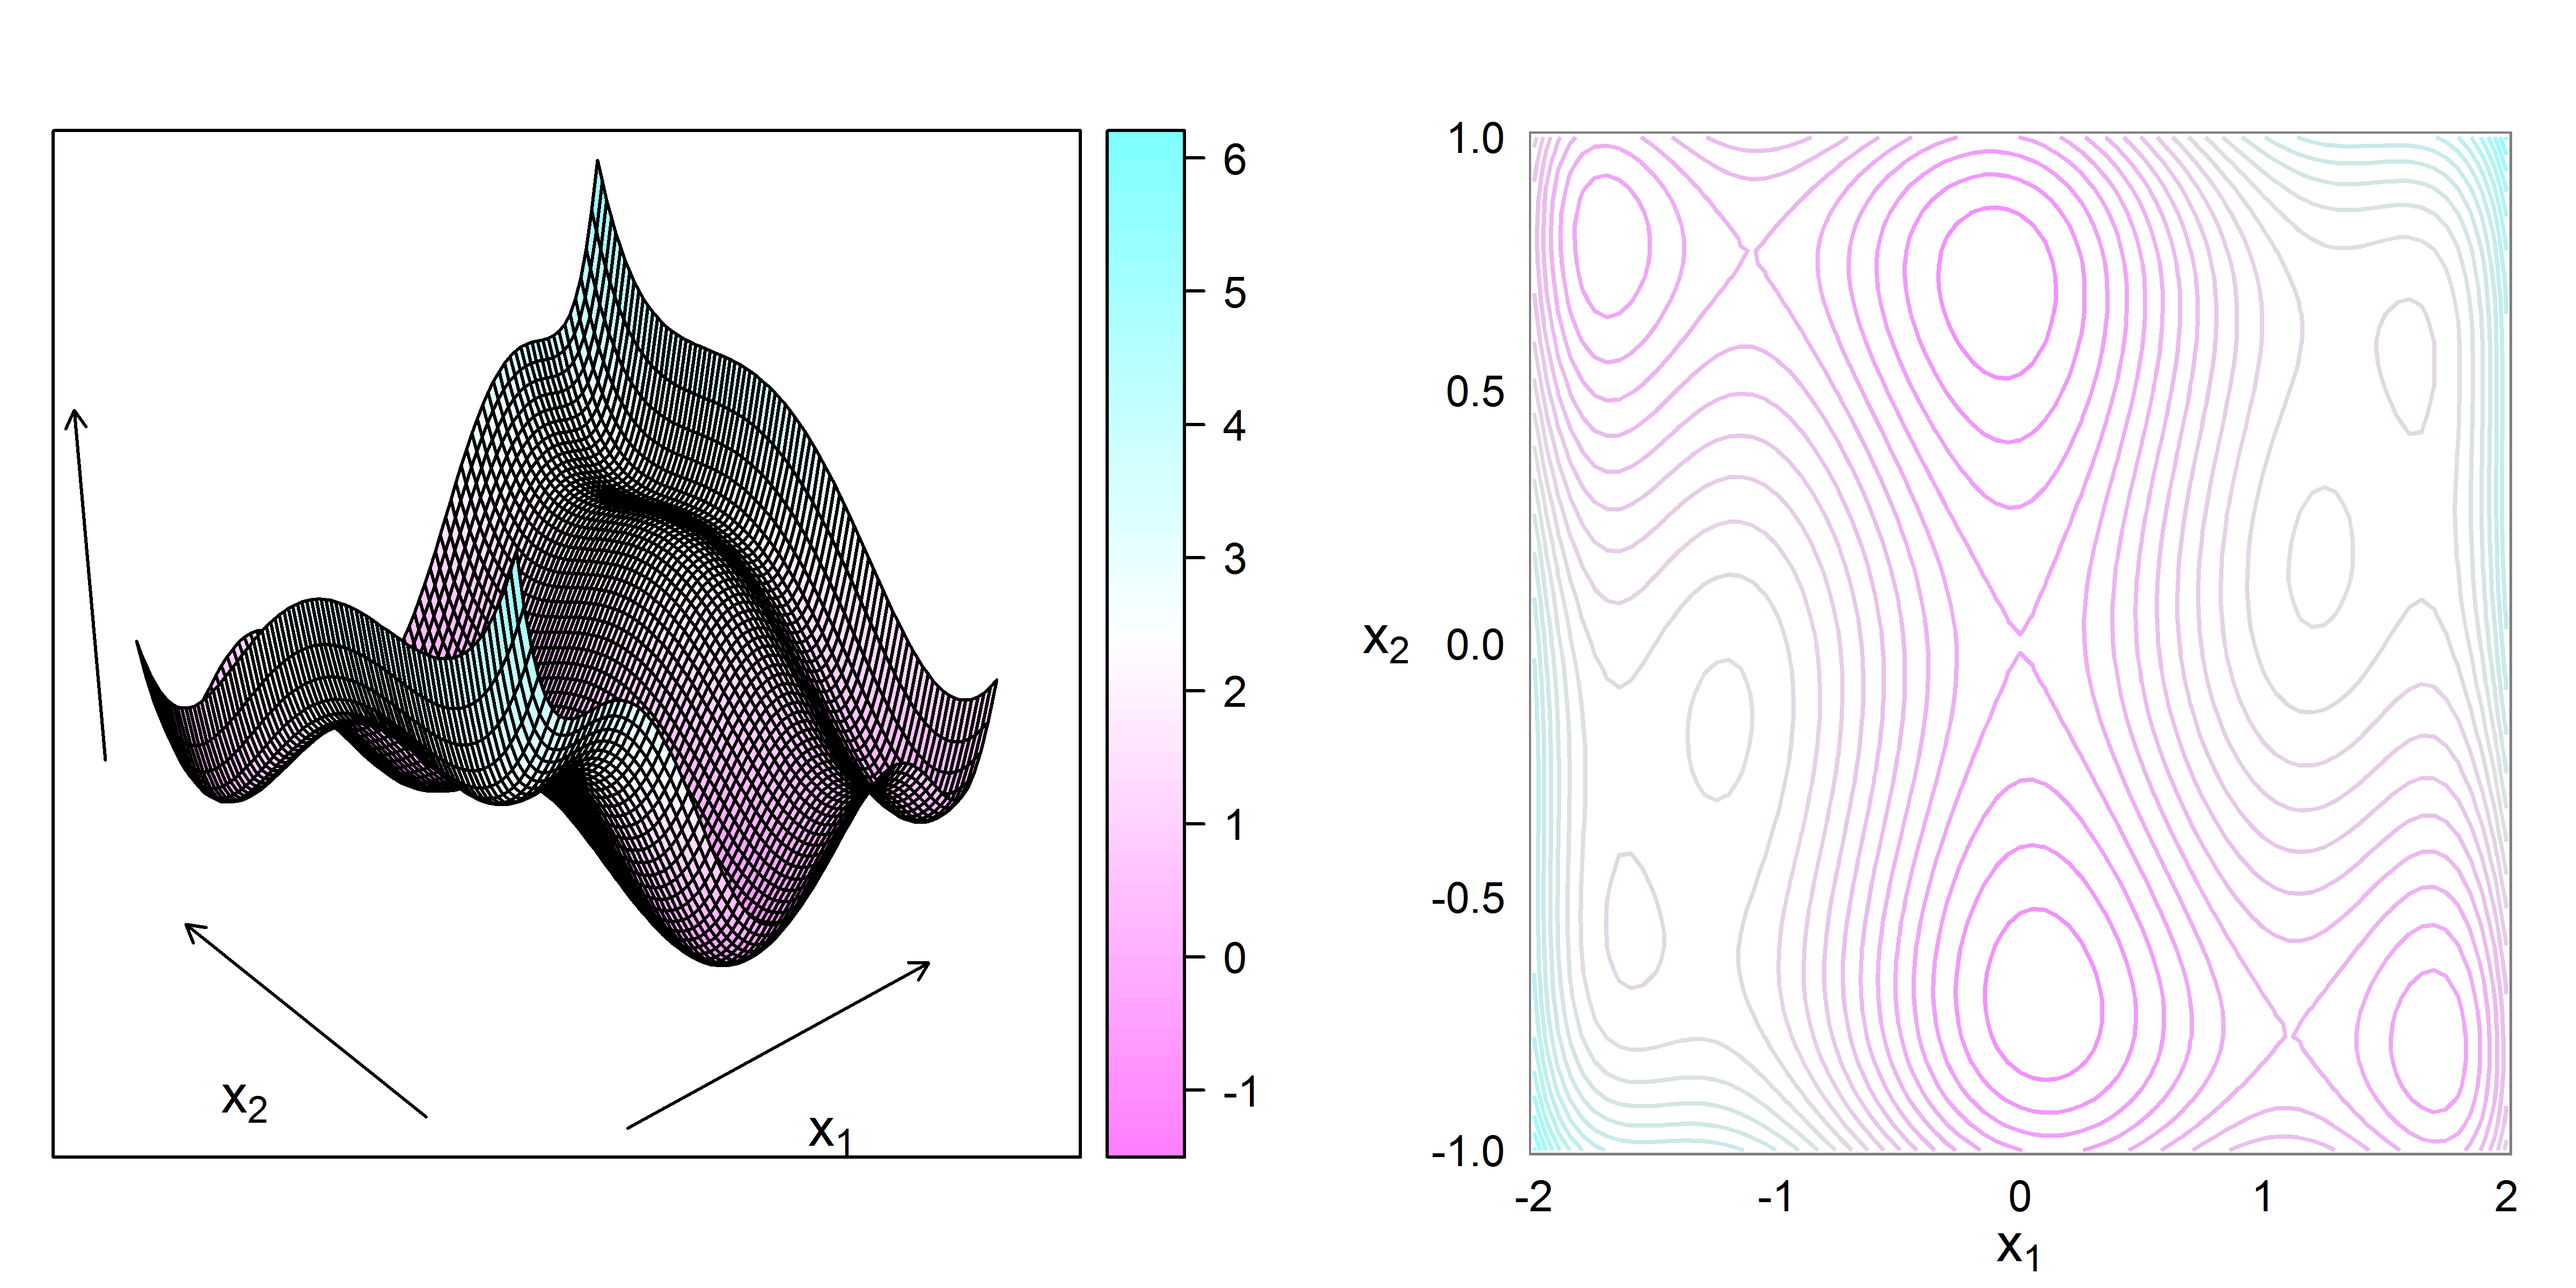
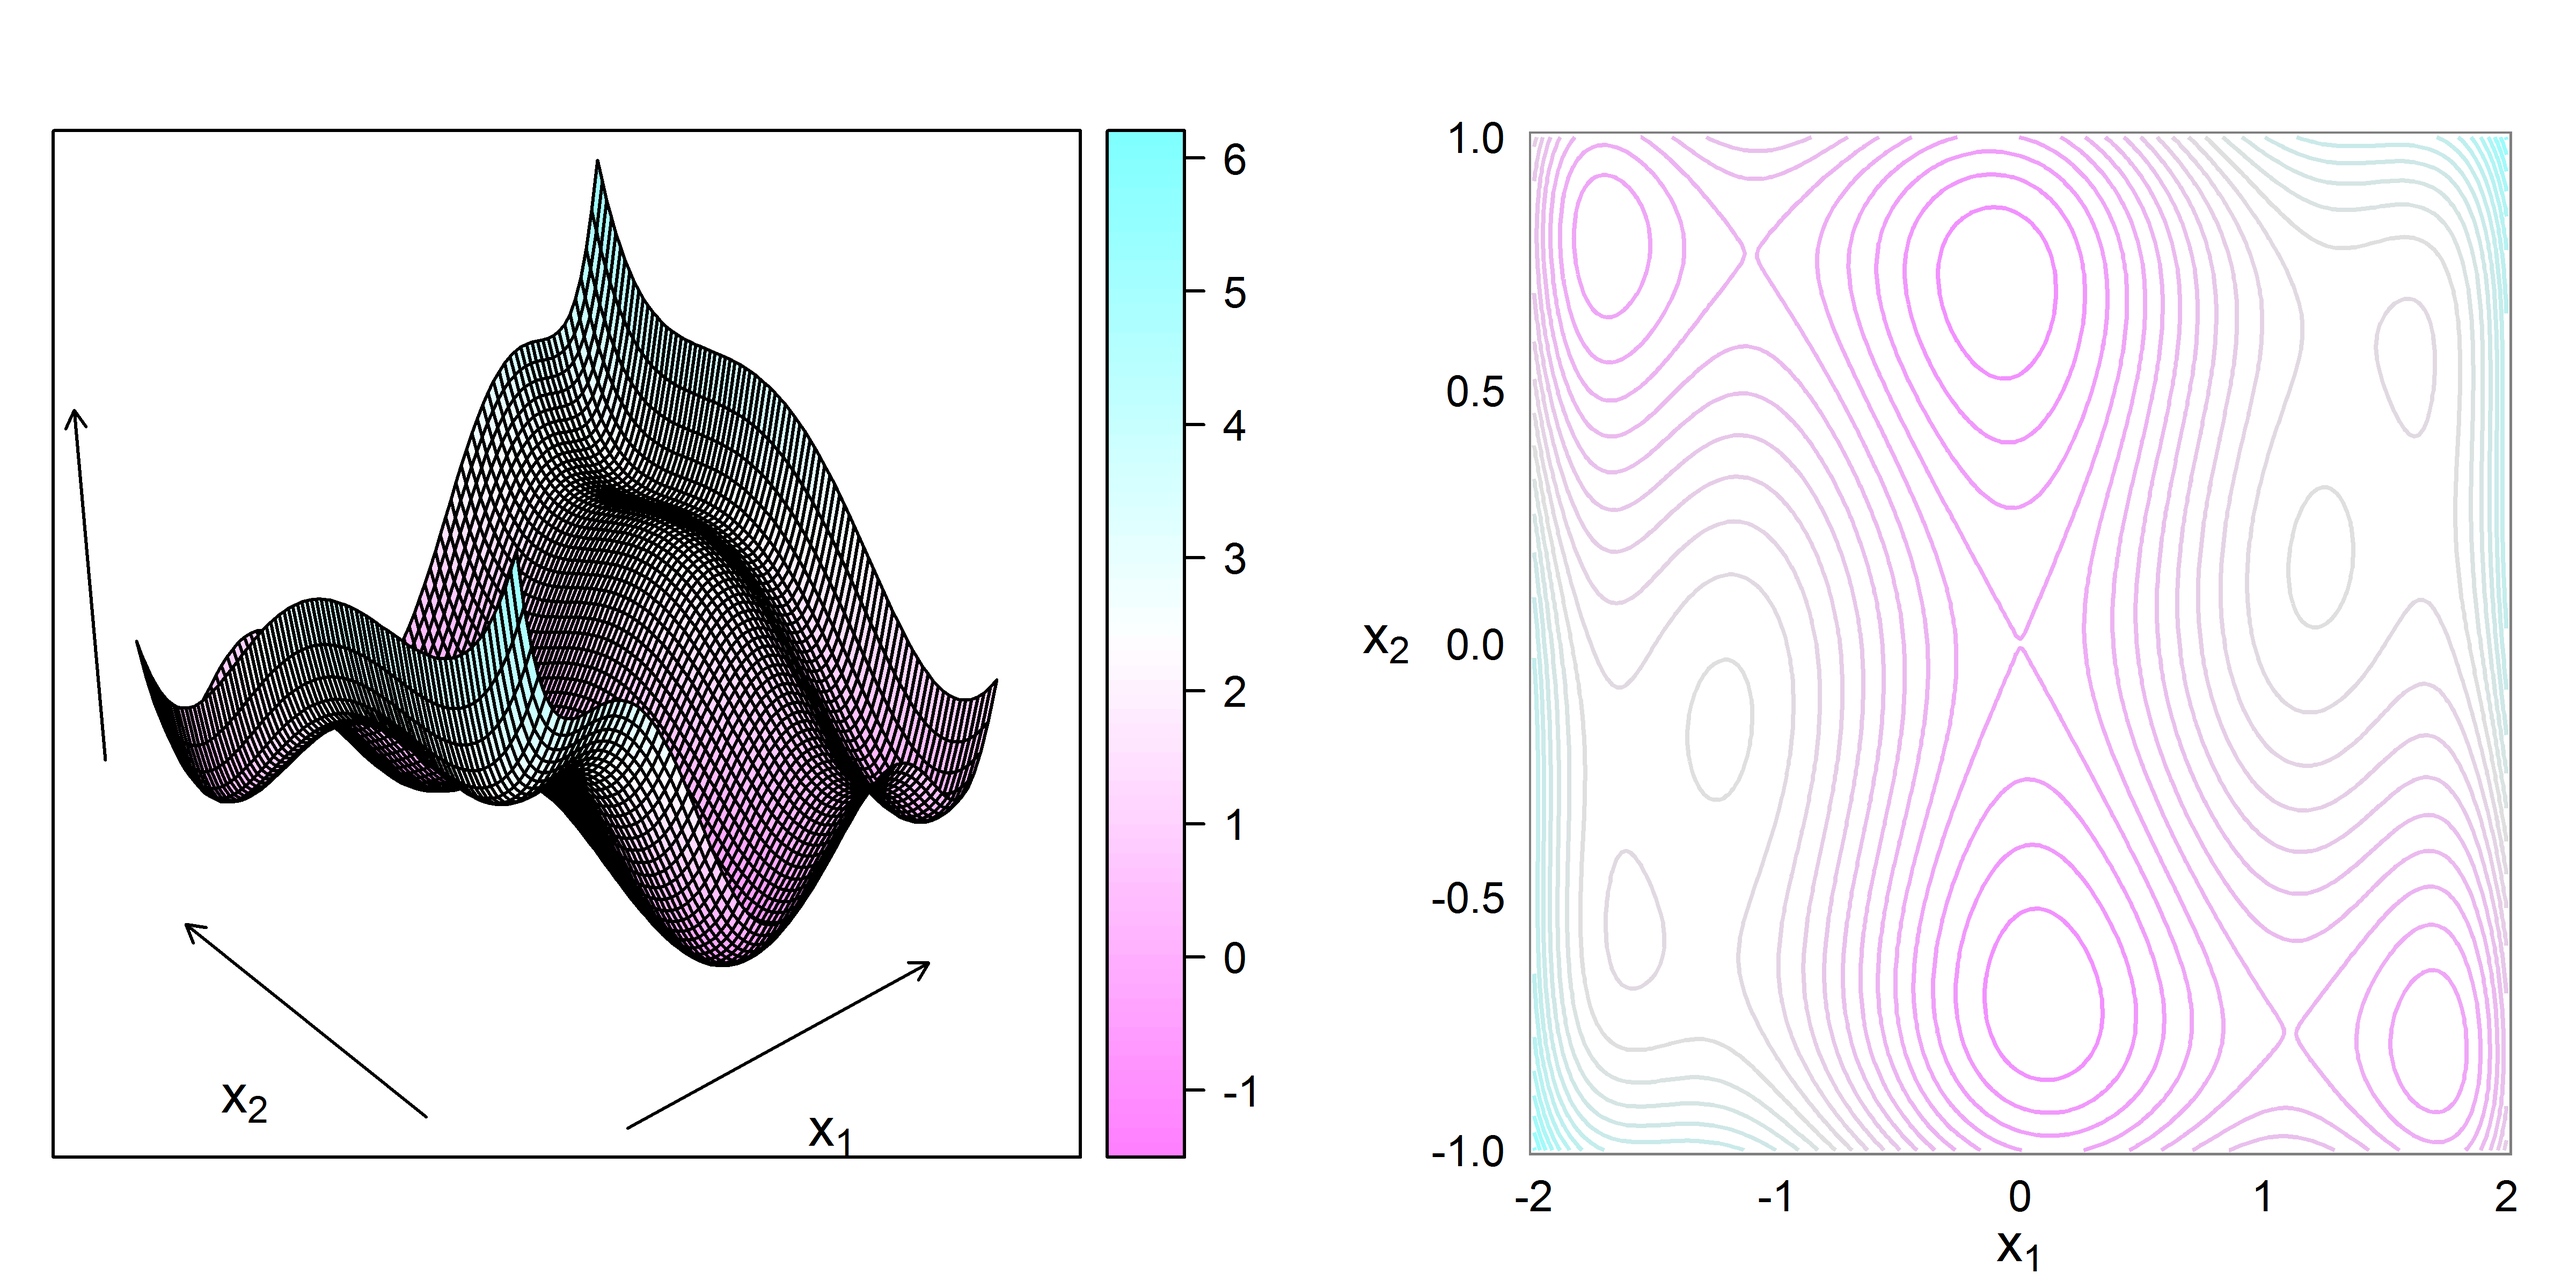
backup

diff --git a/_posts/2016-11-24-visualizing-optimization.md b/_posts/2016-11-24-visualizing-optimization.md
@@ -32,6 +32,7 @@ First, let's load some packages:
 ```r
 library(ggplot2); theme_set(theme_bw())
 library(dplyr)
+library(tidyr)
 library(reshape2)
 library(magrittr) ## for %<>%
 library(tibble) ## for add_column
@@ -75,7 +76,13 @@ optimv <- function(par, fn, gr = NULL, method = "Nelder-Mead", ...){
     }
     
     res <- optimx(par = par, fn = objfun, gr = gradfun, method = method, ...)
-    trace %<>% slice(1:res$fevals)
+    trace %<>% filter(!is.na(x1))
+    
+    .cut <- rowSums(trace[,1:.n] == rep(par, each = nrow(trace)))
+    .start <- tail(which(.cut == .n), 1)
+        
+    trace %<>% slice(.start:(.start+res$fevals-1))
+    
     if(is.na(res$gevals)){
         trace %<>% select(1:(.n+1))
     }
@@ -85,17 +92,22 @@ optimv <- function(par, fn, gr = NULL, method = "Nelder-Mead", ...){
 
 * Explain the function!
 
-To run the function, I just need to define the function and set the starting parameter.
+Every time the objective function (or the gradient function) is called by the optimizer, `optimv` records the parameter as well as the gradient (only if it is evaluted)
+
+What this function does is it saves all the points that the optimizer goes through as well as gradients evaluated at each point ([if it is evaluated](https://en.wikipedia.org/wiki/Derivative-free_optimization)) and returns those values at the end. Basically, it allows us to see how the optimizer gets to that point.
+
+To run the function, we just need to define the function and set the starting parameter.
 
 ```r
 f <- function(x){
     (4 - 2.1 * x[1]^2 + x[1]^4/3) * x[1]^2 +
         x[1] * x[2] + (-4 + 4 * x[2]^2) * x[2]^2
 }
-traceCamel <- optimv(c(1.1, 0.5), f)
+
+traceCamel <- optimv(c(-1.3, -0.3), f)
 ```
 
-Let's try to visualize this. Naive approach would be to simply plot the path but that doesn't help us visualize what Nelder-Mead is doing. We need triangles!
+Let's try to visualize this. Naive approach would be to simply plot the path but that doesn't help us visualize what Nelder-Mead does. We need triangles!
 
 ```r
 triangulate <- . %>%
@@ -107,11 +119,11 @@ triangulate <- . %>%
 This is what the entire optimization process looks like:
 
 ```r
-## defining surface
+## setting up the surface
 surface <- emdbook::curve3d(f(c(x,y)),
-    xlim = c(-2, 2),
-    ylim = c(-1, 1),
-    n = 81,
+    xlim = c(-2.1, 2.1),
+    ylim = c(-1.1, 1.1),
+    n = 301,
     sys3d = "none") %>%
     with({
         m <- matrix(z, ncol = length(x))
@@ -121,8 +133,70 @@ surface <- emdbook::curve3d(f(c(x,y)),
     melt %>%
     setNames(c("x1", "x2", "f"))
 
-traceCamel %>%
-    triangulate %>%
-    ggplot(aes(x1, x2)) + geom_polygon(aes(group = tri, col = tri), fill = NA) +
-    scale_colour_gradient(low = "#E9E9E9", high = "black")
+triCamel <- traceCamel %>%
+    triangulate 
+
+g.default <- ggplot(NULL, aes(x1, x2)) +
+    geom_contour(data = surface, aes(z = f, col = ..level..), binwidth = 0.2) + 
+    scale_colour_gradientn(colours = c("#F291FF", "#DFDFDF", "#91FFFF"), name = "", limits = c(-1.2, 6.1)) + 
+    coord_fixed(ratio = 1) +
+    theme(legend.position = "none",
+        panel.grid = element_blank(),
+        axis.ticks = element_blank(),
+        axis.title.y = element_text(angle=0))
+
+g.contour <- g.default + 
+    geom_polygon(data = triCamel, aes(group = tri), fill = NA, col = "black") +
+    scale_x_continuous(expand = c(0, 0), limits = c(-1.6, 0.8), name = expression(x[1])) +
+    scale_y_continuous(expand = c(0, 0), limits = c(-1.1, -0.15), , name = expression(x[2]))
+    
+ggsave("camel_path.png", g.contour, width = 8, height = 4, dpi = 600)
+```
+
+![Camel_path](/assets/2016-11-26-visualizing-optimization/camel_path.png)
+
+It's still not very easy to see... Why not make a gif?
+
+```r
+fn <- sprintf("camel_%03d", 1:(2 * max(triCamel$tri) - 1))
+
+df <- triCamel %>% filter(tri == 1)
+
+for(i in 1:50){
+    cat(i)
+    x.scale <- (min(df$x1) + max(df$x1))/2 + 0.5 * c(-1, 1)
+    y.scale <- (min(df$x2) + max(df$x2))/2 + 0.5 * c(-1, 1)
+    if(min(y.scale) < -1.1) y.scale <- c(-1.1, -0.1)
+    
+    g.tmp <- g.default +
+        geom_polygon(data = df, aes(group = tri), fill = NA, col = "black") +
+        scale_x_continuous(expand = c(0,0), limits = x.scale, name = expression(x[1])) +
+        scale_y_continuous(expand = c(0,0), limits = y.scale, name = expression(x[2])) +
+        theme(plot.margin = unit(c(0.3, 0.3, 0.2, 0.2), "in"))
+    
+    ggsave(file = paste0(fn[2 * i - 1], ".png"), g.tmp, width = 8, height = 8, dpi = 300)
+    
+    df <- triCamel %>% filter(tri == i+1)
+    
+    g.tmp2 <- g.tmp + geom_polygon(data = df, fill = NA, col = "black", lty = 2)
+    if(i == 19){
+        x.scale <- c(-0.25, 0.75)
+        g.tmp2 <- g.tmp2 + scale_x_continuous(expand = c(0,0), limits = x.scale, name = expression(x[1])) 
+    }
+    ggsave(file = paste0(fn[2 * i], ".png"), g.tmp2, width = 8, height = 8, dpi = 300)
+}
+```
+
+![Camel_gif](/assets/2016-11-26-visualizing-optimization/camel.gif)
+
+Work with gradient function??
+
+```
+gr <- function(x){
+    c(((-4.2 * x[1] + 4 * x[1]^3/3) * x[1]^2 + 2 * (4 - 2.1 * x[1]^2 + x[1]^4/3) * x[1] + x[2]),
+    (x[1] + (8 * x[2]) * x[2]^2 + 2 * (-4 + 4 * x[2]^2) * x[2]))
+}
+## try CG instead of BFGS?
+## BFGS has a scaling problem?
+data.frame(optimv(c(-1.3, -0.3), fn = f, gr = gr, method = "CG"))
 ```
